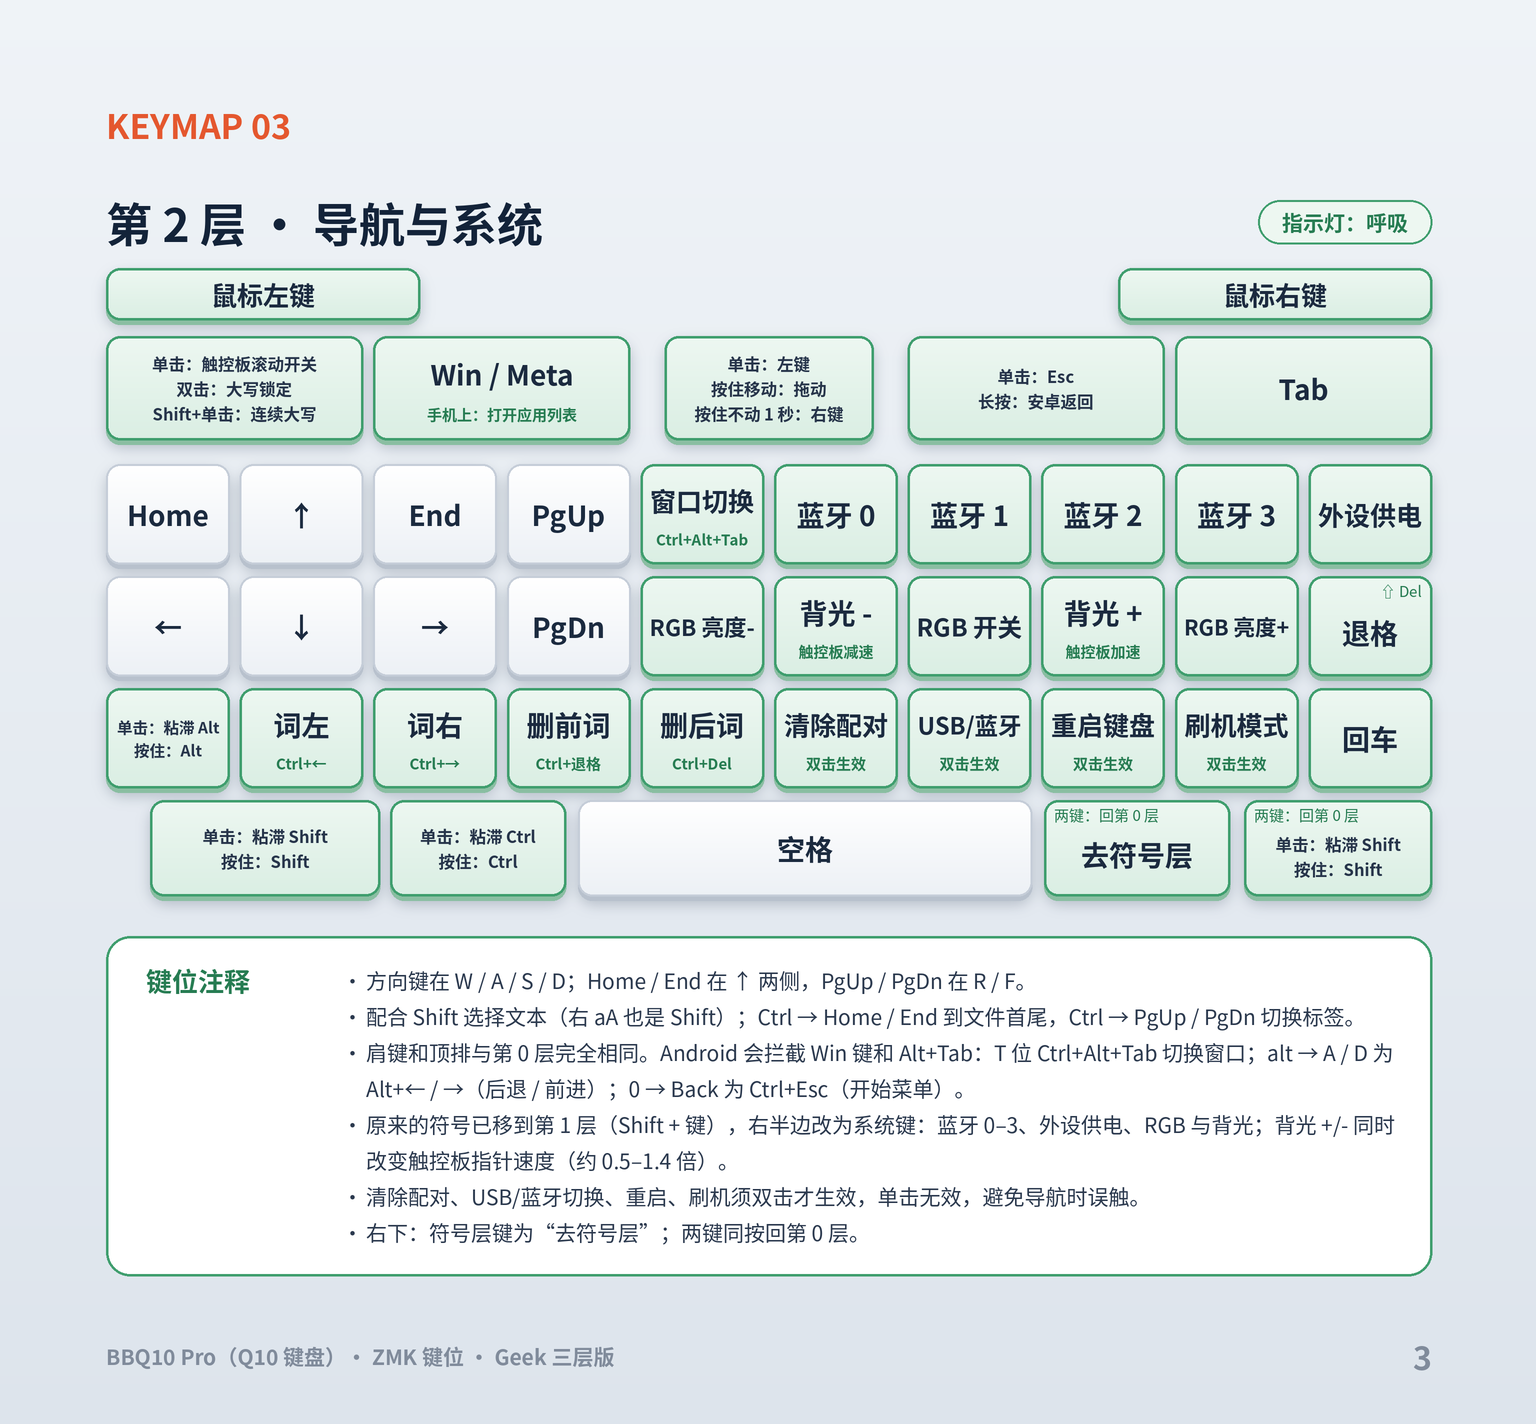
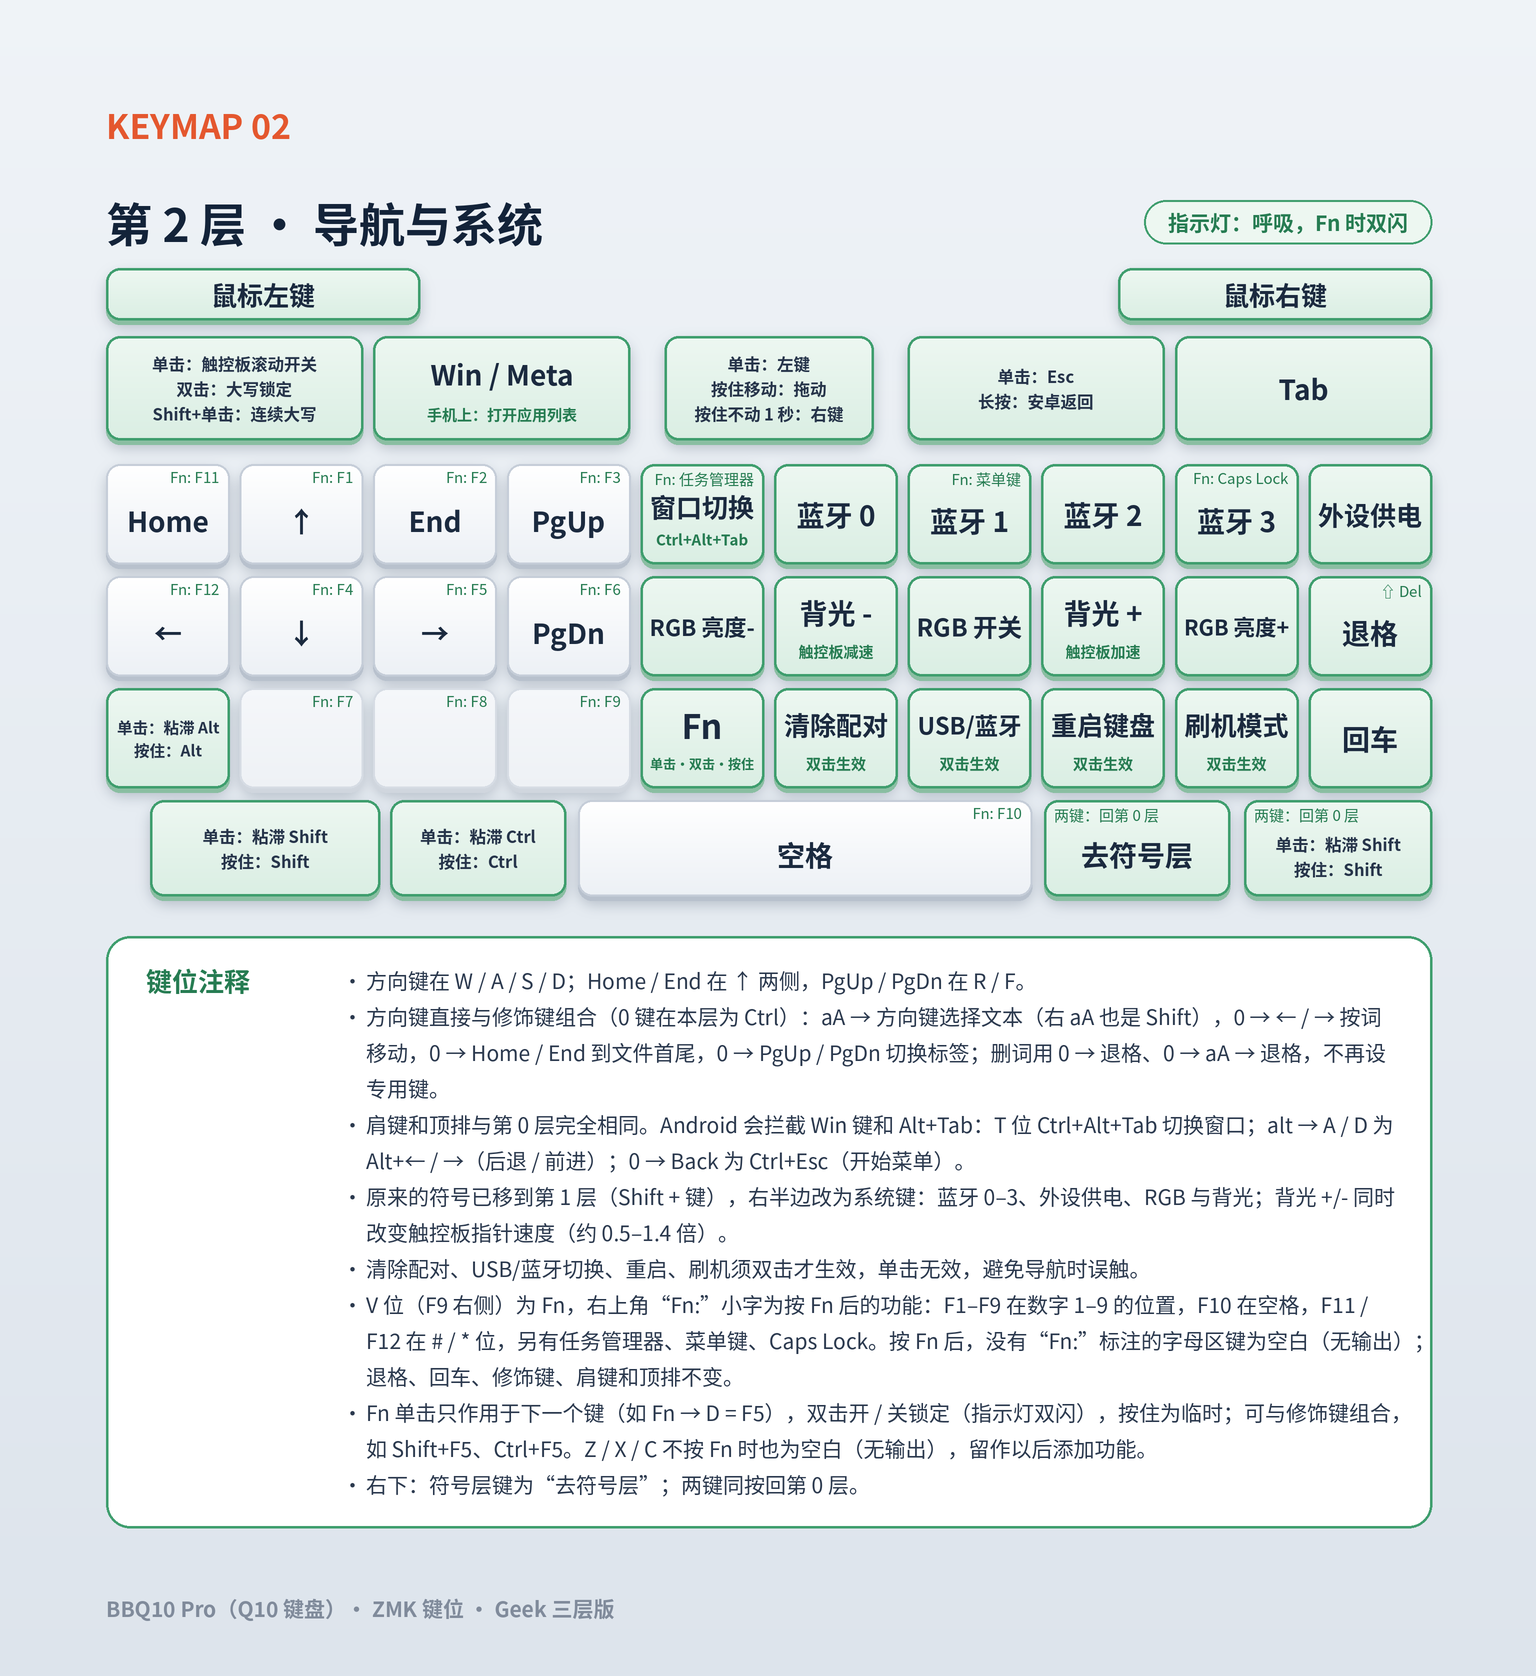
Geek3layers: Fn on the navigation layer, F keys only under Fn
Arrow keys are often combined with modifiers, F keys rarely are, so the
navigation layer keeps the arrows as plain keys and the F keys move
behind an Fn key on that layer. The separate F-key page is gone.

- Navigation layer: V (right of C) is Fn. Tap for the next key only,
  double-tap to switch Fn on or off, hold for momentary. Under Fn the
  arrow cluster gives F11 F1 F2 F3 / F12 F4 F5 F6, Z X C give F7 F8 F9,
  Space gives F10, and T U O give Task Manager, Menu and Caps Lock
- Fn is switched on over the navigation layer instead of replacing it:
  Backspace, Enter, the modifiers and the layer keys keep working, the
  other letter keys are blank, and the indicator double-flashes
- Drop the word keys (Ctrl+Left/Right/Backspace/Delete). The 0 key is
  now Ctrl on the navigation and Fn layers even when they are entered
  from the symbol layer, so sticky Ctrl + arrow or Backspace does the
  same. Z X C are blank without Fn, kept free for new functions
- Symbol layer: the $ key types $ again
- Diagrams: label the Fn functions on the navigation page and drop the
  F-key page; page headers use the layer number (KEYMAP 00-02)

Changed region(s): [[0.0625, 0.0618, 0.9375, 0.9888]]

diff --git a/README.md b/README.md
@@ -12,7 +12,6 @@ Layer diagrams for the keymap in `config/zitaotech_q10.keymap`.
 <img width="800" alt="第 0 层 · QWERTY" src="docs/keymap/keymap-0-qwerty.png" />
 <img width="800" alt="第 1 层 · 数字与符号" src="docs/keymap/keymap-1-symbols.png" />
 <img width="800" alt="第 2 层 · 导航与系统" src="docs/keymap/keymap-2-navigation.png" />
-<img width="800" alt="第 3 层 · F 键（Fn）" src="docs/keymap/keymap-3-fn.png" />
 </p>
 
 ### Use this repo to generate your own ZMK keymap for the bbq10 Pro keyboard.  
